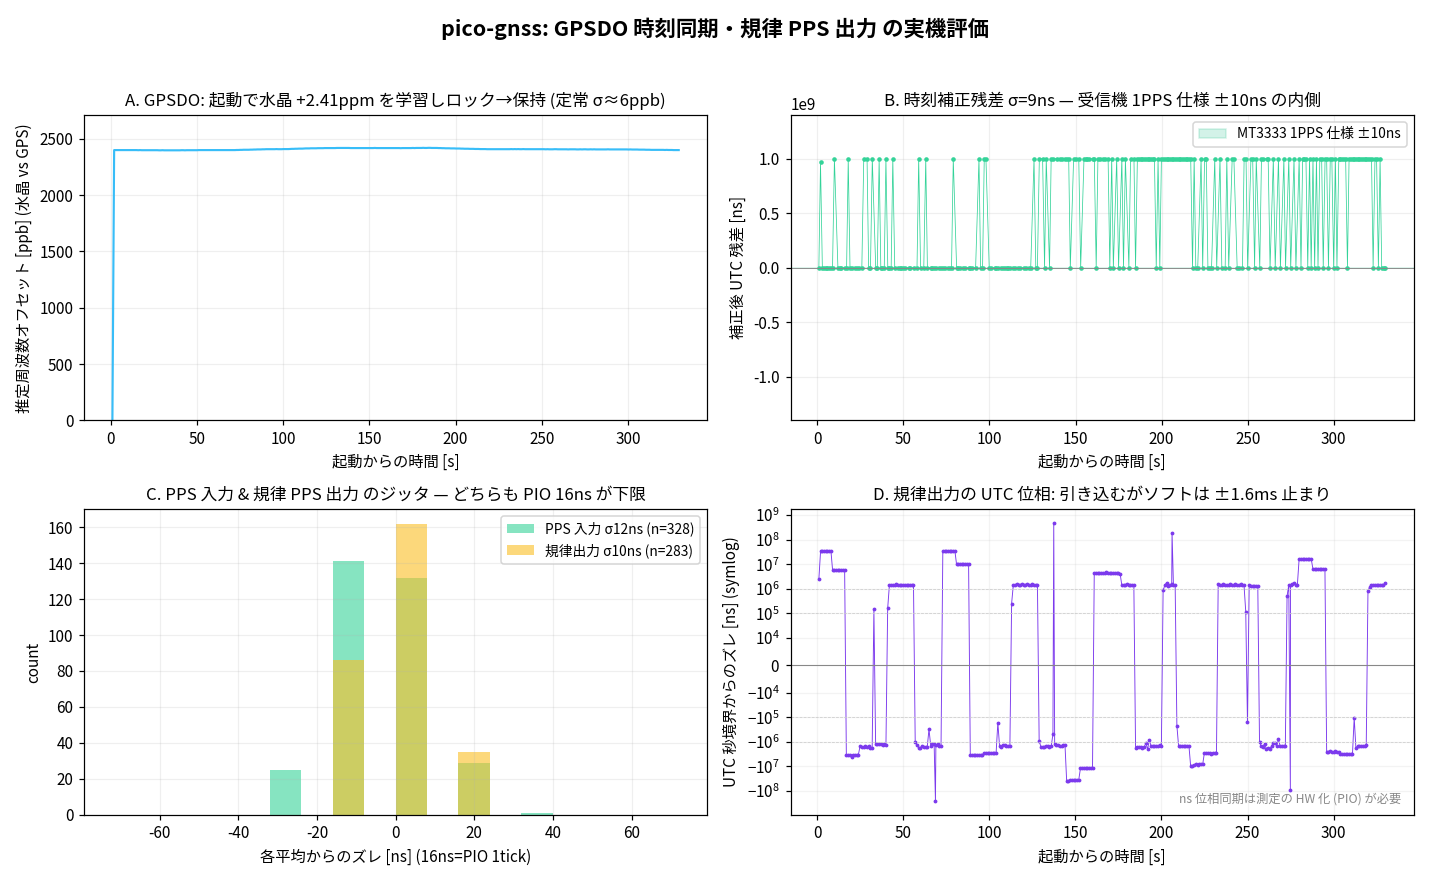
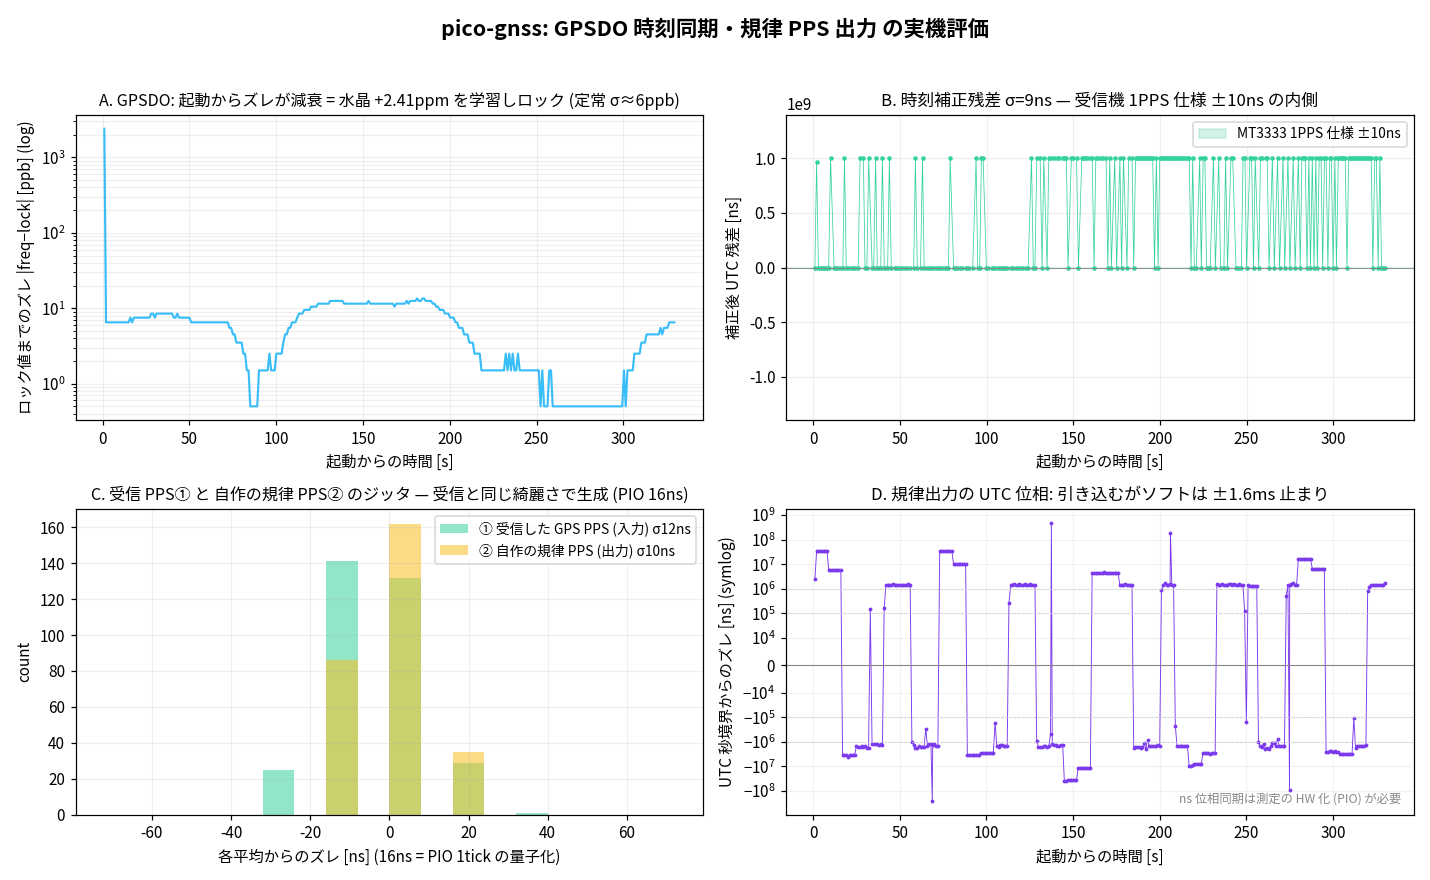
pico-gnss report: A を log 収束に戻し赤線廃止 + C の色を①受信/②自作と明示
A: 赤線(σ)が別量で混乱の元だったので廃止。log の |freq−ロック値| は維持し、青線を
   「ロック値までのズレ」と直感的にラベル。収束(3桁の減衰)が log で見やすい。
C: 緑/黄が何か不明だったので、①受信した GPS PPS(入力) / ②自作の規律 PPS(出力) と明示。
   「受信と同じ綺麗さで生成」が伝わる形に。

diff --git a/webapp/plot_report.py b/webapp/plot_report.py
@@ -56,16 +56,15 @@ for ln in log:
 fig, ax = plt.subplots(2, 2, figsize=(13, 8))
 fig.suptitle("pico-gnss: GPSDO 時刻同期・規律 PPS 出力 の実機評価", fontsize=14, fontweight="bold")
 
-# A: GPSDO 周波数そのものを時間軸で直接 (0→+2.4ppm にランプ→保持 が一目で分かる)
+# A: ロック値までのズレ を log-y で (収束が見やすい。赤線は廃止)
 a = ax[0][0]
 if len(ppb) > 5:
     p = np.array(ppb, float); tp = np.array(ppb_t, float)
     lock = np.median(p[len(p) * 2 // 3:]); ss = np.std(p[len(p) // 3:])
-    a.plot(tp, p, color="#38bdf8", lw=1.4)
-    a.set_ylim(min(0, p.min()), max(p) * 1.12 + 1)
-    a.set_title(f"A. GPSDO: 起動で水晶 +{lock/1000:.2f}ppm を学習しロック→保持 (定常 σ≈{ss:.0f}ppb)", fontsize=11)
-    a.set_xlabel("起動からの時間 [s]"); a.set_ylabel("推定周波数オフセット [ppb] (水晶 vs GPS)")
-    a.grid(True, alpha=0.2)
+    a.semilogy(tp, np.maximum(np.abs(p - lock), 0.3), color="#38bdf8", lw=1.4)
+    a.set_title(f"A. GPSDO: 起動からズレが減衰 = 水晶 +{lock/1000:.2f}ppm を学習しロック (定常 σ≈{ss:.0f}ppb)", fontsize=10.5)
+    a.set_xlabel("起動からの時間 [s]"); a.set_ylabel("ロック値までのズレ |freq−lock| [ppb] (log)")
+    a.grid(True, which="both", alpha=0.2)
 
 # B: 時刻同期 ns 級 (±10ns spec 帯)
 a = ax[0][1]
@@ -88,11 +87,11 @@ ho = np.array([x for x in gen_dev if 1000 < abs(x) < 50000], float)
 ho -= ho.mean() if len(ho) else 0
 bins = np.arange(-72, 73, 8)  # 8ns 刻み (PIO tick=16ns)
 if len(hp) > 4:
-    a.hist(hp, bins=bins, color="#36d399", alpha=0.6, label=f"PPS 入力 σ{hp.std():.0f}ns (n={len(hp)})")
+    a.hist(hp, bins=bins, color="#36d399", alpha=0.55, label=f"① 受信した GPS PPS (入力) σ{hp.std():.0f}ns")
 if len(ho) > 4:
-    a.hist(ho, bins=bins, color="#fbbf24", alpha=0.6, label=f"規律出力 σ{ho.std():.0f}ns (n={len(ho)})")
-a.set_title("C. PPS 入力 & 規律 PPS 出力 のジッタ — どちらも PIO 16ns が下限", fontsize=11)
-a.set_xlabel("各平均からのズレ [ns] (16ns=PIO 1tick)"); a.set_ylabel("count")
+    a.hist(ho, bins=bins, color="#fbbf24", alpha=0.55, label=f"② 自作の規律 PPS (出力) σ{ho.std():.0f}ns")
+a.set_title("C. 受信 PPS① と 自作の規律 PPS② のジッタ — 受信と同じ綺麗さで生成 (PIO 16ns)", fontsize=10.5)
+a.set_xlabel("各平均からのズレ [ns] (16ns = PIO 1tick の量子化)"); a.set_ylabel("count")
 a.legend(fontsize=9); a.grid(True, alpha=0.2)
 
 # D: 位相同期の収束 (symlog: ms〜µs を 1 枚に)

diff --git a/report/REPORT.md b/report/REPORT.md
@@ -24,12 +24,12 @@ host テスト 35 green。
 
 横軸はすべて**起動からの実時間 [s]**、各パネルのタイトルがそのまま結論。
 
-- **A. GPSDO ロック**: 推定周波数オフセット (ppb) を時間軸で直接。起動時 0 から **~8s で +2.4ppm に
-  ランプして平らに** = 水晶ドリフトを学習しロック→保持。定常 σ~数 ppb は title に注記。
+- **A. GPSDO ロック (log)**: `|freq − ロック値|` を log-y で。起動時 ~2400ppb のズレから **数秒で減衰**
+  = 水晶ドリフトを学習しロック。以後は定常 (σ~数 ppb) で推移。log なので 3 桁の収束が 1 枚に乗る。
 - **B. 時刻同期 ns 級**: GPSDO 補正後の UTC 予測残差。**MT3333 1PPS 仕様 ±10ns の帯 (緑) の内側**に
   収まる = ns 級の時刻同期。
-- **C. PPS & 規律出力ジッタ**: 入力 PPS と規律 PPS 出力のジッタを各平均からのズレで重ねた。**どちらも
-  PIO の 16ns 量子化が下限** (受信機 PPS は MT3333 仕様 ±10ns 相当)。
+- **C. 受信 PPS① と 自作規律 PPS② のジッタ**: ①GPS から受信した PPS入力、②自分で生成した規律PPS出力、
+  を各平均からのズレで重ねた。**受信と同じ綺麗さ (PIO 16ns 量子化) で生成できている** (①は MT3333 仕様 ±10ns 相当)。
 - **D. 位相同期の収束 (symlog)**: 規律出力エッジの UTC 秒境界からのズレ。起動から引き込むが、位相の
   「測定」が CPU の Instant 読み (executor ウェイクアップ遅延) 律速で **ソフトでは ±~1.4ms 止まり**。
   ns 位相同期は測定の HW 化 (PIO で出力エッジを GPS PPS と同じカウンタで捕捉, stage ②) が必要。
